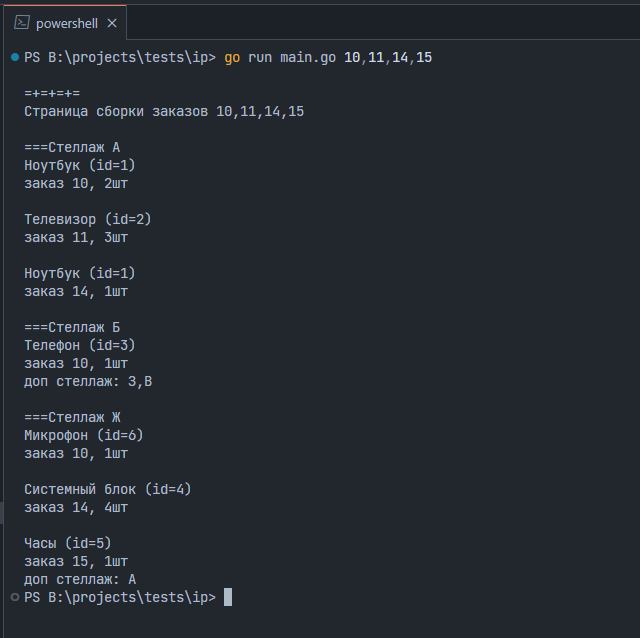
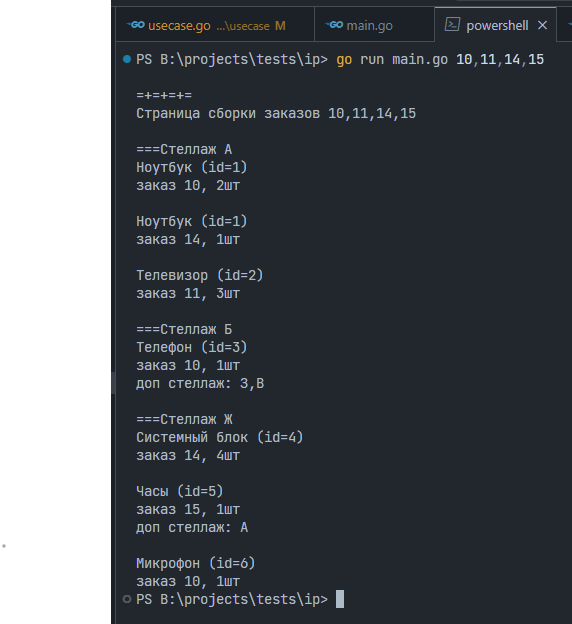
оптимизация

Changed region(s): [[0.0, 0.0, 1.0, 1.0], [0.2378, 0.4263, 0.4755, 0.4872], [0.9808, 0.0609, 1.0, 0.0913]]

diff --git a/app/repository/mysql.go b/app/repository/mysql.go
@@ -6,6 +6,7 @@ import (
 	"strings"
 
 	"github.com/kabbachokk/golang-test-3/model"
+	"github.com/samber/lo"
 )
 
 // mysqlRepo
@@ -18,40 +19,79 @@ func NewMysqlRepo(conn *sql.DB) *mysqlRepo {
 	return &mysqlRepo{conn}
 }
 
-func (r *mysqlRepo) QueryOrderRacksByOrderID(ids []int) ([]*model.OrderRacks, error) {
+func (r *mysqlRepo) QueryOrderRacksByOrderID(ids []int) ([]*model.OrderRack, error) {
 	//ids := []int{10, 11, 14, 15}
 	sql := `
-	SELECT prn.p_name, po.order_id, p.id, p.name, po.qty, prn.s_name
-		FROM product_order po
-		LEFT JOIN product p ON p.id = po.product_id
-		LEFT JOIN product_rack_names prn ON prn.product_id = po.product_id
-		WHERE po.order_id IN (%s)
-	ORDER BY prn.p_name, po.order_id
+	SELECT r.name, po.order_id, po.product_id, p.name, po.qty 
+	FROM 
+		product_order AS po, 
+		product_rack AS pr, 
+		rack AS r,
+		product AS p
+	WHERE 
+		pr.rack_id = r.id AND 
+		pr.product_id = po.product_id AND 
+		po.product_id = p.id AND 
+		pr.is_primary IS true AND 
+		po.order_id IN (%s)
+	ORDER BY r.name;
 	`
 	sql = fmt.Sprintf(sql,
 		strings.Join(strings.Split(strings.Repeat("?", len(ids)), ""), ","))
-
-	stmt, err := r.conn.Prepare(sql)
-	if err != nil {
-		return nil, err
-	}
-	defer stmt.Close()
 
 	parm := make([]interface{}, len(ids))
 	for i := range ids {
 		parm[i] = ids[i]
 	}
-	rows, err := stmt.Query(parm...)
+	rows, err := r.conn.Query(sql, parm...)
 	if err != nil {
 		return nil, err
 	}
 	defer rows.Close()
 
-	var res []*model.OrderRacks
+	var productIds []int
+
+	var res []*model.OrderRack
 	for rows.Next() {
-		var m model.OrderRacks
-		rows.Scan(&m.PrimaryRack, &m.OrderID, &m.ProductID, &m.ProductName, &m.Qty, &m.SecondaryRacks)
+		var m model.OrderRack
+		rows.Scan(&m.PrimaryRack, &m.OrderID, &m.ProductID, &m.ProductName, &m.Qty)
+		productIds = append(productIds, m.ProductID)
 		res = append(res, &m)
+	}
+
+	productIds = lo.Uniq(productIds)
+	secondaryParm := make([]interface{}, len(productIds))
+	for i := range productIds {
+		secondaryParm[i] = productIds[i]
+	}
+
+	secondarySql := `
+	SELECT pr.product_id, GROUP_CONCAT(r.name) 
+	FROM product_rack AS pr, rack AS r 
+	WHERE pr.rack_id = r.id AND pr.is_primary IS NULL AND pr.product_id IN (%s)
+	GROUP BY pr.product_id;
+	`
+	secondarySql = fmt.Sprintf(secondarySql,
+		strings.Join(strings.Split(strings.Repeat("?", len(productIds)), ""), ","))
+
+	secondaryRows, err := r.conn.Query(secondarySql, secondaryParm...)
+	if err != nil {
+		return nil, err
+	}
+	defer secondaryRows.Close()
+
+	secondaryMap := map[int]string{}
+	for secondaryRows.Next() {
+		r := struct {
+			ProductID int
+			Names     string
+		}{}
+		secondaryRows.Scan(&r.ProductID, &r.Names)
+		secondaryMap[r.ProductID] = r.Names
+	}
+
+	for _, v := range res {
+		v.SecondaryRacks = secondaryMap[v.ProductID]
 	}
 
 	return res, nil

diff --git a/app/delivery/cli/handlers.go b/app/delivery/cli/handlers.go
@@ -44,9 +44,11 @@ func (p *cliHandlers) RootHandler(cmd *cobra.Command, args []string) {
 		}
 		fmt.Printf("\n%s (id=%d)", v.ProductName, v.ProductID)
 		fmt.Printf("\nзаказ %d, %dшт", v.OrderID, v.Qty)
+
 		if v.SecondaryRacks != "" {
 			fmt.Printf("\nдоп стеллаж: %s", v.SecondaryRacks)
 		}
+
 		fmt.Printf("\n")
 	}
 }

diff --git a/app/usecase/usecase.go b/app/usecase/usecase.go
@@ -17,6 +17,6 @@ func NewUseCase(
 	return &useCase{repo}
 }
 
-func (uc *useCase) GetOrderRacksByOrderID(ids []int) ([]*model.OrderRacks, error) {
+func (uc *useCase) GetOrderRacksByOrderID(ids []int) ([]*model.OrderRack, error) {
 	return uc.repo.QueryOrderRacksByOrderID(ids)
 }

diff --git a/app/repository.go b/app/repository.go
@@ -4,5 +4,5 @@ import "github.com/kabbachokk/golang-test-3/model"
 
 // MysqlRepository
 type MysqlRepository interface {
-	QueryOrderRacksByOrderID(ids []int) ([]*model.OrderRacks, error)
+	QueryOrderRacksByOrderID(ids []int) ([]*model.OrderRack, error)
 }

diff --git a/app/usecase.go b/app/usecase.go
@@ -4,5 +4,5 @@ import "github.com/kabbachokk/golang-test-3/model"
 
 // UseCase
 type UseCase interface {
-	GetOrderRacksByOrderID([]int) ([]*model.OrderRacks, error)
+	GetOrderRacksByOrderID([]int) ([]*model.OrderRack, error)
 }

diff --git a/model/orderRacks.go b/model/orderRacks.go
@@ -1,6 +1,6 @@
 package model
 
-type OrderRacks struct {
+type OrderRack struct {
 	PrimaryRack    string
 	OrderID        int
 	ProductID      int
